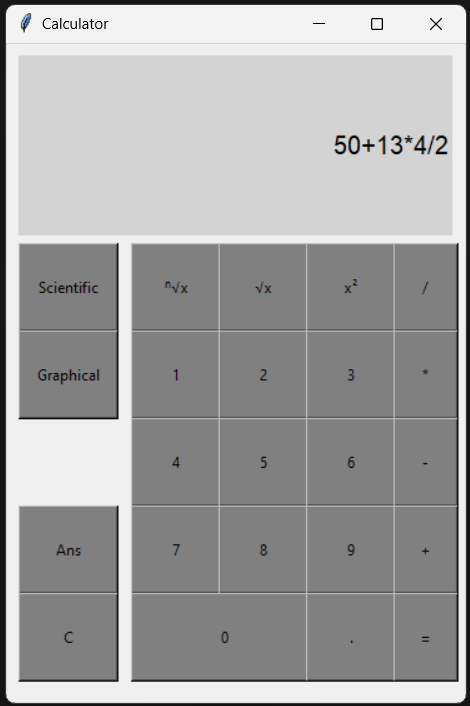
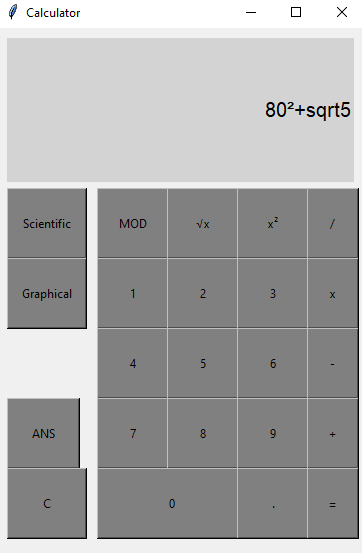
Basic operations running. Miss notation

diff --git a/calculator_data.py b/calculator_data.py
@@ -20,7 +20,7 @@ button_normal = [
     ("0", "0", 100, 440),
     (".", ".", 240, 440),
     ("/", "/", 310, 160),
-    ("*", "*", 310, 230),
+    ("x", "*", 310, 230),
     ("-", "-", 310, 300),
     ("+", "+", 310, 370),
     ("=", "=", 310, 440),

diff --git a/README.md b/README.md
@@ -7,6 +7,7 @@ In this repo I'm going to build a graphical calculator. There is work in progres
   - [x] Exponentiation: Power (x²)
   - [x] Square root (√x)
   - [x] Remainder or signed remainder of a division (MOD)
+  - [ ] Mathematical notation
 ### 2. History
   - [ ] Save previous result (ANS)
   - [ ] Save previous expressions and results in a stack
